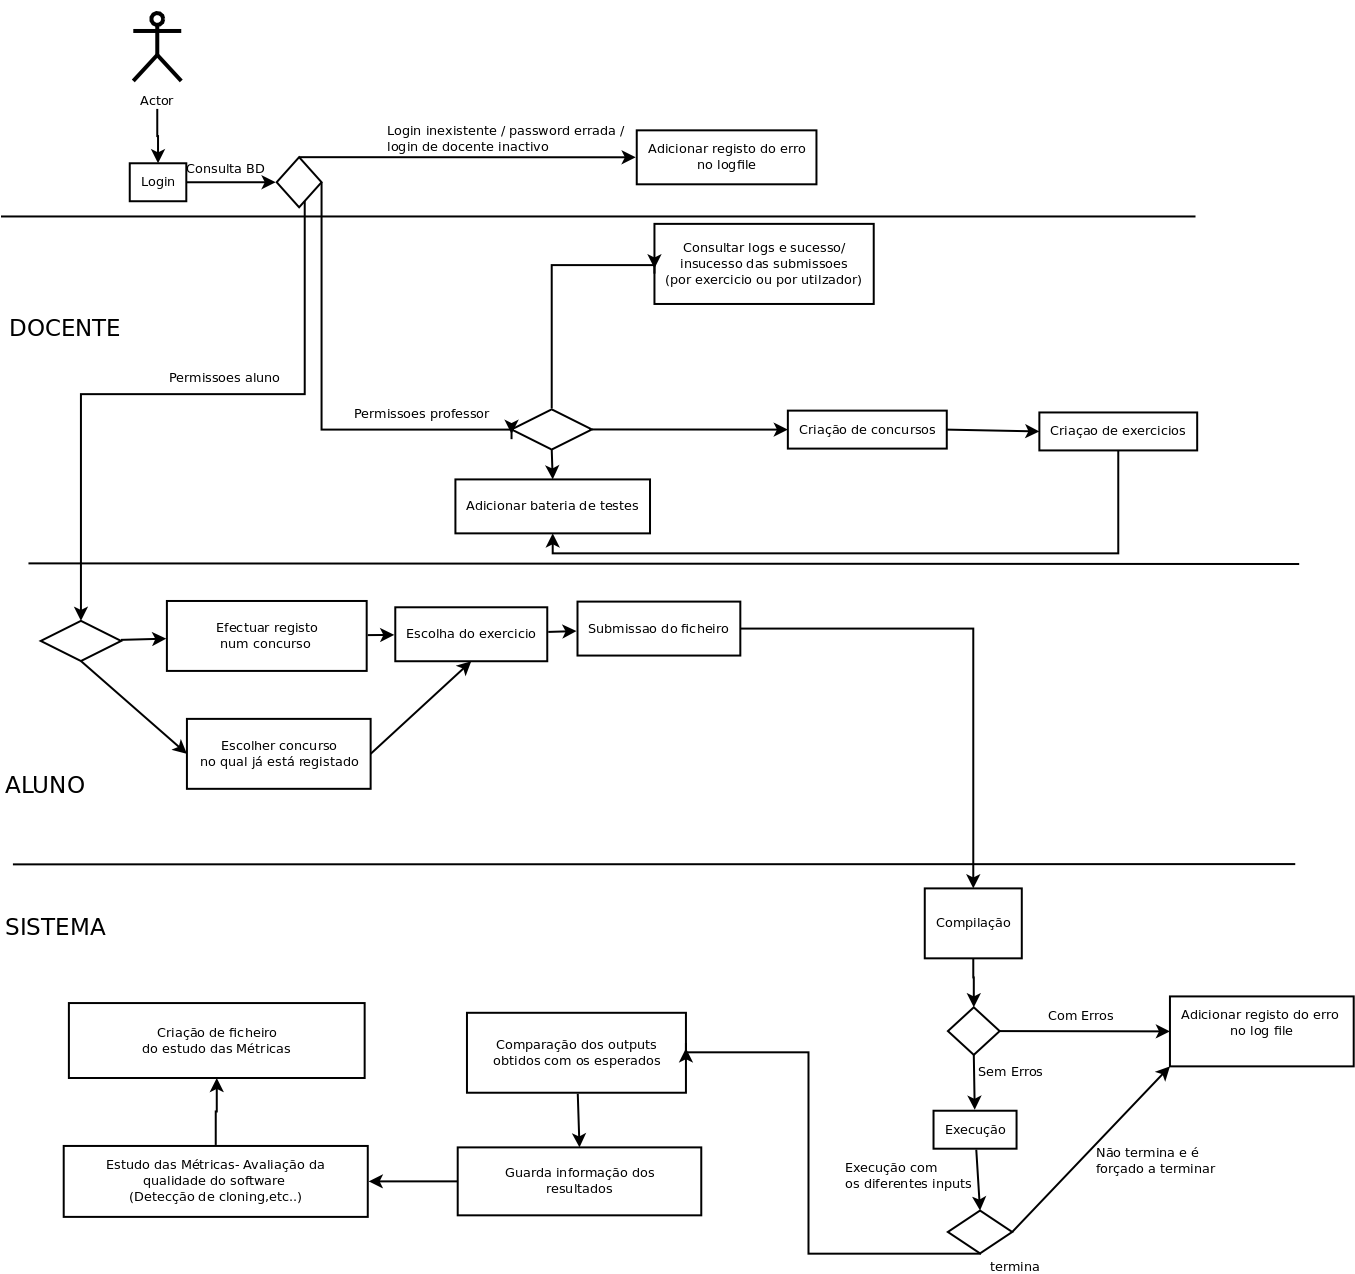
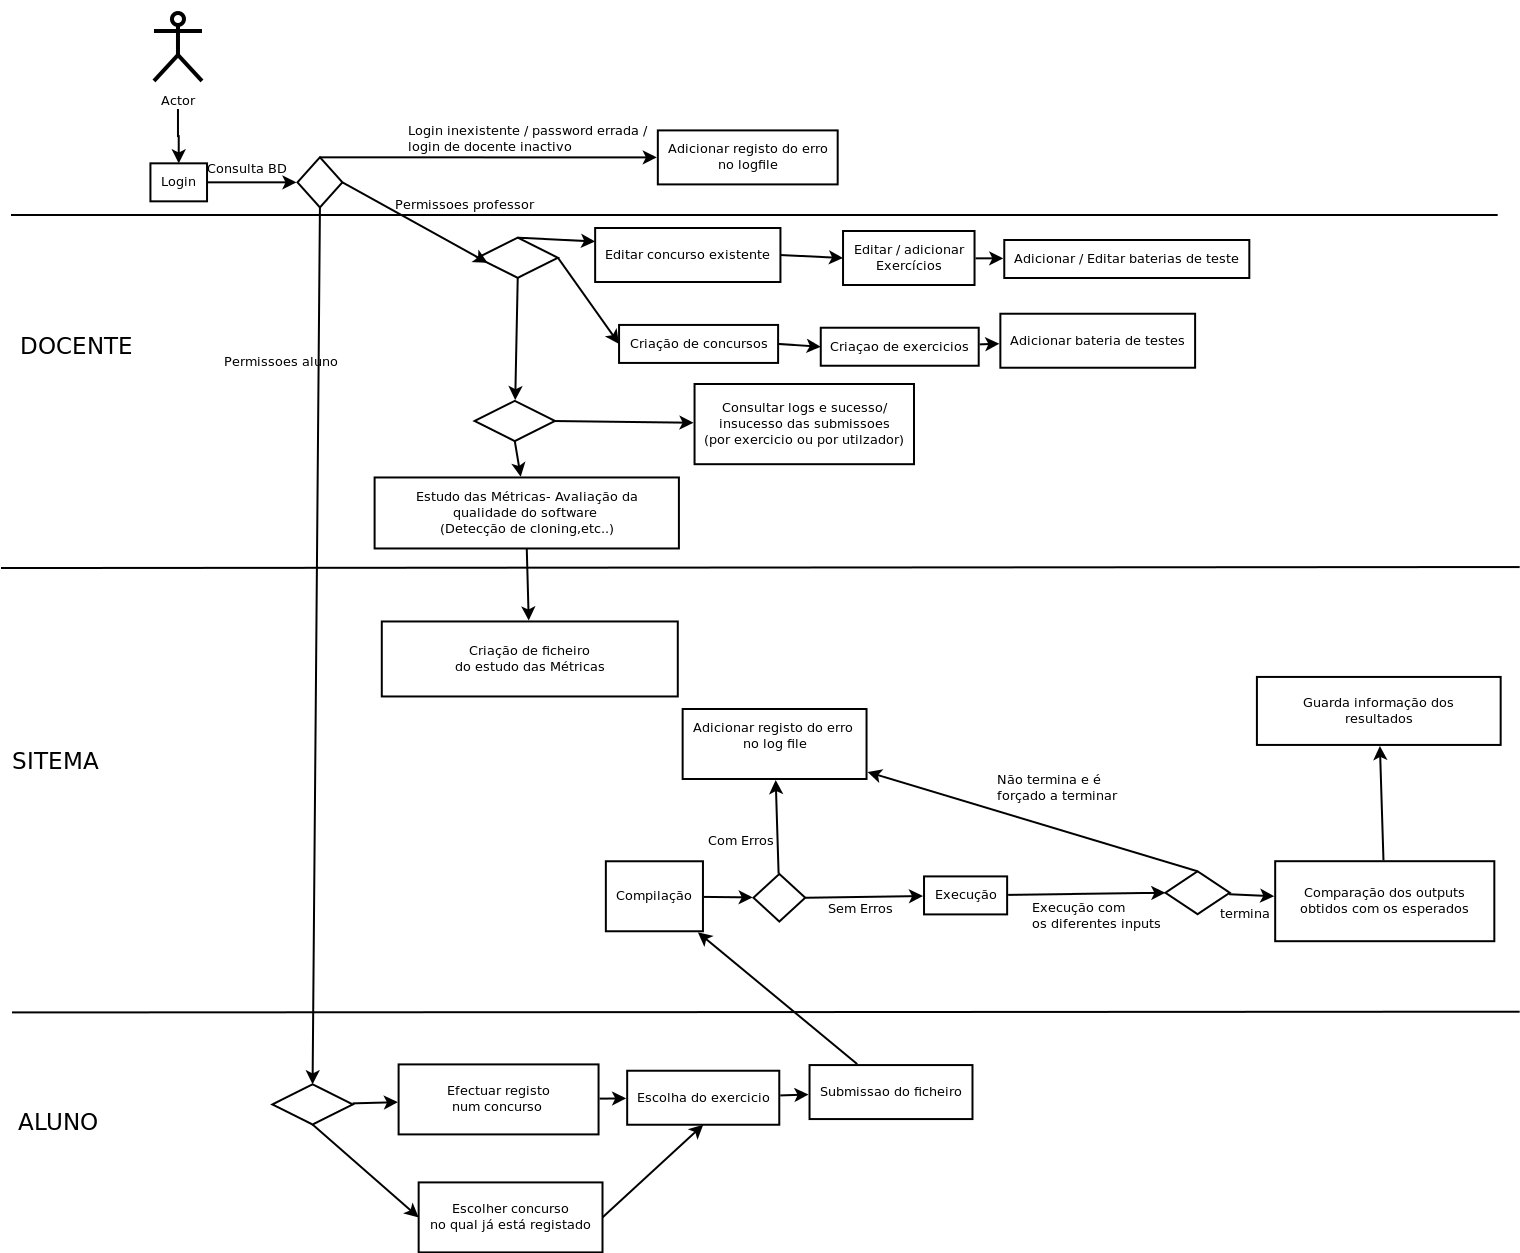
adicionei diagramas e corrigi algumas coisas

diff --git a/TemplateReport/model.tex b/TemplateReport/model.tex
@@ -200,7 +200,7 @@ Temos ainda o contrato da função que gera o relatório final baseando-se na pa
 
 \section{Modelo de Dados}\label{sec modedados}
 
-Definiu-se que existirão três tipos de utilizadores: o administrador, o docente e o aluno/concorrente.\\
+Definiu-se que existirão três tipos de utilizadores: o administrador, o docente e o grupo.\\
 
 \begin{itemize}
   \item Administrador - é a entidade com mais poder no sistema. É o único que pode criar contas do tipo docente. É caracterizado por:
@@ -210,36 +210,50 @@ Definiu-se que existirão três tipos de utilizadores: o administrador, o docent
       \item Password
       \item e-Mail
     \end{itemize}
-  \item Docente - entidade que tem permissões para criar concursos, exercícios, aceder aos resultados das submissões, (...). Os seus atributos coincidem com os do Administrador.
-  \item Aluno/Concorrente - (...)
+  \item Docente - entidade que tem permissões para criar concursos, exercícios, aceder aos resultados das submissões, (...). 
+Os seus atributos coincidem com os do Administrador.
+  \item Grupo - entidade que pode registar-se em concursos e submeter tentativas para os seus diferentes enunciados.
 \end{itemize}
 
-Decidiu-se que o sistema terá a noção de grupo. 
-(...)
-O grupo é que possui as credenciais para entrar no sistema (nome de utilizador e password). 
-Além disso também tem um nome pelo qual é identificado, um e-mail que será usado no caso de haver necessidade de se entrar em contacto com o grupo, e um conjunto de concorrentes.\\
-
-\begin{figure}[htbp]
-\begin{center}
-\includegraphics[width=0.5\textwidth]{Images/missimage}
-\caption{Modelo de dados}\label{fig modedados}
-\end{center}
-\end{figure}
+Decidiu-se que o sistema terá a noção de grupo, e um grupo não é mais do que um conjunto de concorrentes. No entanto,
+o grupo é que possui as credenciais para entrar no sistema (nome de utilizador e password). 
+Além disso também tem um nome pelo qual é identificado, um e-mail que será usado no caso de haver necessidade de se entrar em contacto
+com o grupo, e um conjunto de .\\
 
 Achamos importante incluir a informação de cada concorrente no grupo para, se possível, automatizar várias tarefas tais como lançamento de notas.
 Cada concorrente é caracterizado pelo seu nome completo, número de aluno (se for o caso), e e-mail.\\
 
-Para finalizar vamos explicar em que consistem os concursos, exercícios e tentativas.
+\begin{figure}[htbp]
+\begin{center}
+\includegraphics[width=0.5\textwidth]{Images/grupo-docente}
+\caption{Modelo de dados - Grupo e Docente/Admin}\label{fig modedados-grupo-doc}
+\end{center}
+\end{figure}
+
+
+Para finalizar vamos explicar em que consistem os concursos, enunciados e tentativas.
 
 Um concurso, resumidamente, é um agregado de enunciados. 
 Tem outras propriedades tais como um título, data de inicio e data de fim (período em que o concurso está disponível para que os grupos se registem), 
 chave de acesso (necessária para o registo dos grupos), duração do concurso (tempo que o grupo tem para resolver os exercícios do concurso, 
 a partir do momento que dá inicio à prova), e por fim, regras de classificação.\\
-
+\\
 Um enunciado é um exercício que o concorrente tenta solucionar. Como seria de esperar, cada exercício pode ter uma cotação diferente, 
 logo o peso do enunciado é guardado no mesmo. 
 Para cada enunciado existe também um conjunto de inputs e outputs, que servirão para verificar se o programa submetido está correcto. 
-Contém ainda uma descrição do problema que o concorrente deve resolver, assim como uma função de avaliação, função esta que define como se verifica se o output obtido está de acordo com o esperado.\\
+Contém ainda uma descrição do problema que o concorrente deve resolver, assim como uma função de avaliação, função esta que define como
+ se verifica se o output obtido está de acordo com o esperado.\\
+\\
+Uma tentativa é a informação que é gerada pelo sistema, para cada vez que o grupo submete um ficheiro.\\
+Além de conter dados sobre o concurso, enunciado e grupo a que pertence, a tentativa também contém o caminho para o código fonte do programa
+submetido, data e hora da tentativa, dados referentes à compilação e um dicionário com os inputs esperados e os outputs gerados pelo programa
+submetido.
+\begin{figure}[htbp]
+\begin{center}
+\includegraphics[width=0.5\textwidth]{Images/concurso-enunciado}
+\caption{Modelo de dados - Concurso, tentativa e enunciado}\label{fig modedados-conc-enunc}
+\end{center}
+\end{figure}
 
 \section{Importação de dados}\label{sec xml}
 
@@ -249,37 +263,93 @@ Esta funcionalidade será bastante útil para demonstrar e testar o sistema, sem
 Os campos presentes no xml de cada uma das entidades, \textit{enunciado} e \textit{tentativa}, são praticamente os mesmos 
 que estão descritos no modelo de dados das respectivas entidades.\\
 \\
-No xml do enunciado, não há nada muito relevante a acrescentar, além de que não contém uma id para o enunciado, pois esta será gerada 
+No xml do enunciado, não há nada muito relevante a acrescentar, além de que não contém um id para o enunciado, pois este será gerada 
 automaticamente pelo sistema. Passamos agora a apresentar um exemplo do mesmo.
-
-%\lstinputlisting{ChapterMod/importdadosFiles/enunciado.xml}
+\\
+\lstinputlisting{resources/enunciado.xml}
 
 
 Quanto ao xml para a \textit{tentativa} há que realçar o facto de que o código fonte do programa vai dentro de uma tag xml.  Além da tag xml, o código fonte
 terá de ir cercado de uma secção CDATA. Isto acontece para que o que o código fonte não seja processado com o restante xml que o contém.\\
 \\
 
-%\lstinputlisting{ChapterMod/importdadosFiles/tentativa.xml}
+\lstinputlisting{resources/tentativa.xml}
+
 
 Para que todos os dados contidos nos ficheiros xml possam ser facilmente validados, foram criados dois \textit{XML schema}.
 Neste schema definimos quais as tags que devem existir em cada xml, o tipo de dados e até a gama de valores que serão contido por cada tag e
  a multiplicidade das tags .\\
-\\
+
 Nesta fase inicial do projecto ainda não foram sempre especificados  os tipos de dados que serão contidos por cada tag.\\
 No entanto, para alguns dos casos em que tal aconteceu apresentaremos alguns exemplos e explicações.\\
 \\
 No xsd referente ao \textit{enunciado} encontramos o elemento \textit{Peso}, que é um exemplo de uma tag que contém restrições.
 O \textit{Peso} terá de ser um inteiro e terá um valor entre 0 e 100.
+
+\begin{lstlisting}
+<ed:element name="Peso" default="25">
+  <ed:simpleType>
+    <ed:restriction base="ed:integer">
+      <ed:minInclusive value="0"/>
+      <ed:maxInclusive value="100"/>
+    </ed:restriction>
+  </ed:simpleType>
+</ed:element>
+\end{lstlisting}
 Já o elemento \textit{Linguagem} é também restringido, mas de uma forma ligeiramente diferente. A \textit{Linguagem} será uma string, mas
 apenas poderá tomar um dos valores enumerados no xsd.\\
-\\
-%\lstinputlisting{ChapterMod/importdadosFiles/enunciado.xsd}
+
+\begin{lstlisting}
+<ed:element name="Linguagem" maxOccurs="unbounded">
+    <ed:simpleType>
+	<ed:restriction base="ed:string">
+	    <ed:enumeration value="C"/>
+	    <ed:enumeration value="Java"/>
+	    <ed:enumeration value="Haskell"/>
+	</ed:restriction>
+    </ed:simpleType>
+</ed:element>
+\end{lstlisting}
+
 
 No xsd para a \textit{tentativa} podemos evidenciar a multiplicidade das tags, ou seja, quantas vezes algumas delas se podem repetir.
 Na \textit{tentativa}, existe um \textit{Dict}, que contém uma ou mais tags \textit{Teste}.
 Para definirmos que possam existir mais de que uma tag \textit{Teste} dentro de \textit{Dict}, adicionamos o atributo \textit{maxOccurs},
 na entidade \textit{Teste}, com o valor \textit{``unbounded''}. O valor mínimo não é necessário definir, porque é um por default.
+\begin{lstlisting}
+<tt:element name="Dict">
+    <tt:complexType>
+	<tt:sequence>
+	    <tt:element name="Teste" maxOccurs="unbounded">
+		<tt:complexType>
+		    <tt:sequence>
+			<tt:element name="Nome" type="tt:string"/>
+			<tt:element name="Input" type="tt:string"/>
+			<tt:element name="Output" type="tt:string"/>
+		    </tt:sequence>
+		</tt:complexType>
+	    </tt:element>
+	</tt:sequence>
+    </tt:complexType>
+</tt:element>
+\end{lstlisting}
 
+Para dar uma ideia mais geral sobre ambos os \textit{xml schema} criados, em vez de apresentarmos aqui ambos os ficheiros integralmente,
+vamos antes expor os diagramas que o programa \textit{oxygen} constrói e coloca ao nosso dispor, pois pensamos que torna o entendimento do
+schema muito mais simples.\\
+\newpage
+Desta forma aqui ficam os diagramas para o enunciado e para a tentativa:\\
+ 
+\begin{figure}[htbp]
+\begin{center}
+\includegraphics[width=0.5\textwidth]{Images/enunciado_schema}
+\caption{diagrama do schema para o enunciado}\label{fig xsd enunciado}
+\end{center}
+\end{figure}
 
-%\lstinputlisting{ChapterMod/importdadosFiles/enunciado.xsd}
-
+\begin{figure}[htbp]
+\begin{center}
+\includegraphics[width=0.5\textwidth]{Images/tentativa_schema}
+\caption{diagrama do schema para a tentativa}\label{fig xsd tentativa}
+\end{center}
+\end{figure}

diff --git a/TemplateReport/intro.tex b/TemplateReport/intro.tex
@@ -6,14 +6,14 @@ ambiente de trabalho, com um interface Web, que permita a docentes/alunos avalia
 
 \section{Motivação}
 Este trabalho é muito interessante do ponto de vista de produto final, como de obra didáctica para a sua concretização. Para a sua feitura os autores terão de aplicar
-conhecimentos adquiridos na área de arquitectura de um sistema de informação, desenvolvimento para a web, lingugaens de scripting, bases de dados, processamento de textos, etc\ldots\\
+conhecimentos adquiridos na área de arquitectura de um sistema de informação, desenvolvimento para a web, linguagens de scripting, bases de dados, processamento de textos, etc\ldots\\
 Como se pode facilmente concluir, este é um projecto que do ponto de vista técnico é muito motivador para nós devido à sua magnitude e inovação técnica que implica aos seus autores.
 
 \section{Objectivos}
 Este projecto tem como objectivos consolidar conhecimentos adquiridos nos diferentes módulos da UCE de Engenharia de Linguagens
-Assim sendo, vamos recorrer a tecnologia aprendida durante as aulas, bemc omo tecnologia que já conheciamos e aprendemos durante a nossa formação académica ou à parte desta.
+Assim sendo, vamos recorrer a tecnologia aprendida durante as aulas, bem como tecnologia que já conheciamos e aprendemos durante a nossa formação académica ou à parte desta.
 Um dos nossos grandes objectivos pessoais é consolidar e desenvolver ainda mais o uso de tecnologias variadas, para arranjar uma solução elegante, funcional e que cumpra os requesitos do sistema descrito.
-Assim, este projecto é mais do que mais um projecto de mestrado, passando a ser encarado como um desafio ao conhecimento e aa por em prática conhecimentos adquiridos.
+Assim, este projecto é mais do que mais um projecto de mestrado, passando a ser encarado como um desafio ao conhecimento e a por em prática conhecimentos adquiridos.
 
 \subsection{Ferramentas}
 As ferramentas/tecnologias que pensamos ir precisar são as seguinte:
